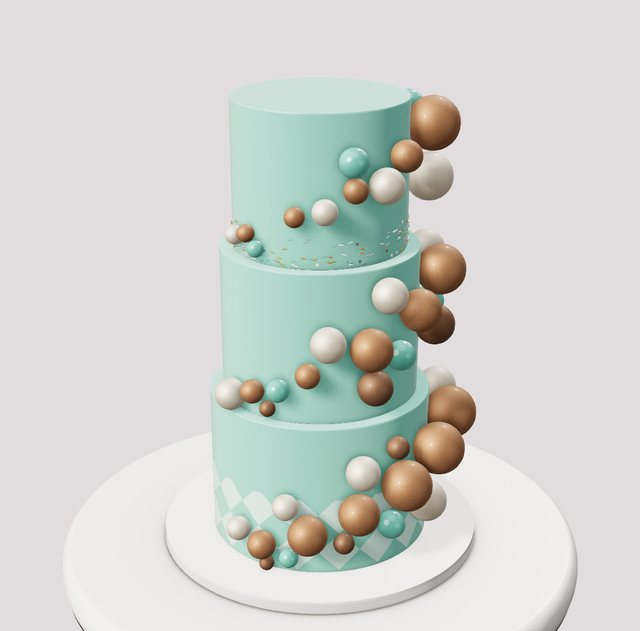
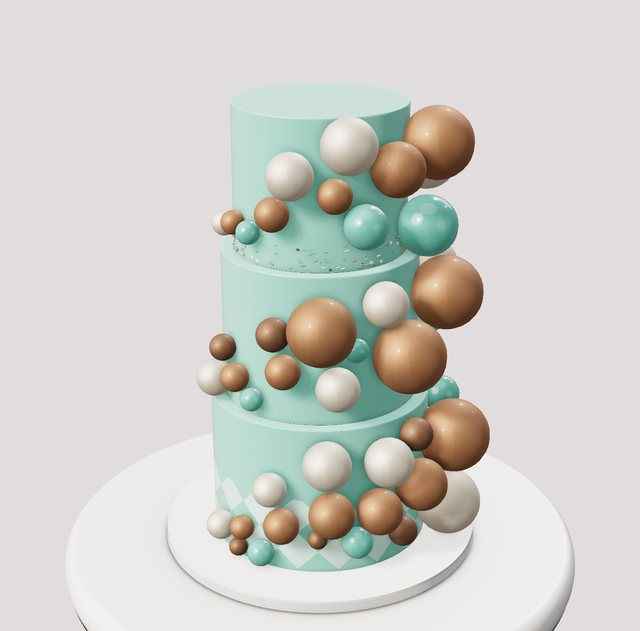
Rosette tower big rosettes, monogram in metallic champagne (new Metallic Luster finish), bigger teal baubles
Claude-Session: https://claude.ai/code/session_016sN14hzH19WJ5zrp8o2QGp

diff --git a/studio.html b/studio.html
@@ -435,7 +435,7 @@ const store={get(k){try{return JSON.parse(localStorage.getItem(k))}catch{return 
 // ---------------------------------------------------------------- Design data
 const FROSTING=['#fbf7f1','#f6eee3','#f3d6dc','#e9a6ba','#d97c99','#f6dcc8','#e7c08f','#d9e6ee','#c9d8c5','#cbbfe0','#7a4a32','#2f2a2c'];
 const PIPING=['#fbf7f1','#f3d6dc','#e9a6ba','#d16a8c','#c9a24e','#9fc0d6','#9db59a','#6b4a3a'];
-const FINISHES={buttercream:{label:'Buttercream',rough:.32,clear:.5,clearR:.15,sheen:.22,tex:1},fondant:{label:'Fondant',rough:.36,clear:.32,clearR:.2,sheen:.35,tex:.35},ganache:{label:'Ganache',rough:.16,clear:.8,clearR:.08,sheen:.1,tex:.25},royal:{label:'Royal Icing',rough:.5,clear:.18,clearR:.3,sheen:.15,tex:.6}};
+const FINISHES={buttercream:{label:'Buttercream',rough:.32,clear:.5,clearR:.15,sheen:.22,tex:1},fondant:{label:'Fondant',rough:.36,clear:.32,clearR:.2,sheen:.35,tex:.35},ganache:{label:'Ganache',rough:.16,clear:.8,clearR:.08,sheen:.1,tex:.25},royal:{label:'Royal Icing',rough:.5,clear:.18,clearR:.3,sheen:.15,tex:.6},metallic:{label:'Metallic Luster',rough:.3,clear:.45,clearR:.2,sheen:.2,tex:.3,metal:.75}};
 const TEX_GROUPS=[{label:'Piped Rosettes',hint:'The whole tier covered in rosettes, piped with a large star tip.',items:['rosettes']},{label:'Smooth And Scraped',hint:'Bench scraper finishes.',items:['smooth','seminaked']},{label:'Combs And Scrapers',hint:'Textured cake combs pulled around the cake.',items:['lines','ribbed','scallop','stripes','combed','wave','zigzag']},{label:'Palette Knife And Spatula',hint:'Hand-worked with a knife or offset spatula.',items:['knife','stucco','brushed','swipes']},{label:'Patterns And Ruffles',hint:'Piped or pressed patterns: basket weave, diamond quilt, dimples and ruffles.',items:['basket','diamond','dimple','golf','ruffle']},{label:'Spoon',hint:'Swirled with the back of a spoon.',items:['swirl']},{label:'Grass And Fur',hint:'The whole tier piped with a grass tip (233): a lawn, a sheep, a teddy bear or a monster.',items:['grass','fur']}];
 const ti=b=>'<svg viewBox="0 0 48 24" fill="none" stroke="currentColor" stroke-width="1.6" stroke-linecap="round" aria-hidden="true">'+b+'</svg>';
 const TEX_ICONS={rosettes:ti('<circle cx="14" cy="8" r="4"/><circle cx="24" cy="8" r="4"/><circle cx="34" cy="8" r="4"/><circle cx="19" cy="16" r="4"/><circle cx="29" cy="16" r="4"/><path d="M14 8m-1.5 0a1.5 1.5 0 1 0 1.5-1.5M24 8m-1.5 0a1.5 1.5 0 1 0 1.5-1.5M34 8m-1.5 0a1.5 1.5 0 1 0 1.5-1.5" stroke-width="1"/>'),smooth:ti('<rect x="8" y="4" width="32" height="16" rx="2"/>'),seminaked:ti('<rect x="8" y="4" width="32" height="16" rx="2"/><path d="M10 10h8M22 10h6M32 10h6M12 15h10M26 15h10" stroke-dasharray="2 2"/>'),lines:ti('<path d="M8 6h32M8 10h32M8 14h32M8 18h32"/>'),ribbed:ti('<path d="M12 4v16M17 4v16M22 4v16M27 4v16M32 4v16M37 4v16"/>'),scallop:ti('<path d="M8 8c2-3 4-3 6 0s4 3 6 0 4-3 6 0 4 3 6 0 4-3 6 0M8 15c2-3 4-3 6 0s4 3 6 0 4-3 6 0 4 3 6 0 4-3 6 0"/>'),stripes:ti('<path d="M8 6h32M8 14h32" stroke-width="3"/><path d="M8 10h32M8 18h32" stroke-width="3" opacity=".4"/>'),combed:ti('<path d="M8 7h32M8 9.5h32M8 12h32M8 14.5h32M8 17h32" stroke-width="1"/>'),knife:ti('<path d="M8 16l8-8 6 5 7-7 5 4 6-4M10 20l9-5 7 3 9-6"/>'),stucco:ti('<path d="M10 16l2-5 2 5M18 12l2-5 2 5M26 16l2-5 2 5M34 12l2-5 2 5M14 20l2-4 2 4M30 20l2-4 2 4"/>'),swirl:ti('<path d="M10 14c0-6 10-6 10 0s-6 5-6 1M26 12c0-6 10-6 10 0s-6 5-6 1"/>'),wave:ti('<path d="M3 8c4-5 7 5 11 0s7 5 11 0 7 5 11 0 7 5 9 0M3 17c4-5 7 5 11 0s7 5 11 0 7 5 11 0 7 5 9 0"/>'),zigzag:ti('<path d="M3 9l5-5 5 5 5-5 5 5 5-5 5 5 5-5 5 5M3 19l5-5 5 5 5-5 5 5 5-5 5 5 5-5 5 5"/>'),basket:ti('<path d="M4 4h14v7H4zM20 4h14v7H20zM4 13h14v7H4zM20 13h14v7H20zM36 4h8v7h-8zM36 13h8v7h-8z"/>'),diamond:ti('<path d="M12 2l10 10-10 10L2 12zM32 2l10 10-10 10-10-10z"/>'),golf:ti('<circle cx="8" cy="7" r="2"/><circle cx="18" cy="7" r="2"/><circle cx="28" cy="7" r="2"/><circle cx="38" cy="7" r="2"/><circle cx="13" cy="15" r="2"/><circle cx="23" cy="15" r="2"/><circle cx="33" cy="15" r="2"/>'),dimple:ti('<circle cx="10" cy="7" r="3"/><circle cx="24" cy="7" r="3"/><circle cx="38" cy="7" r="3"/><circle cx="17" cy="17" r="3"/><circle cx="31" cy="17" r="3"/>'),ruffle:ti('<path d="M6 2c-4 6 4 14 0 20M16 2c-4 6 4 14 0 20M26 2c-4 6 4 14 0 20M36 2c-4 6 4 14 0 20"/>'),brushed:ti('<path d="M8 2v20M15 4v18M22 2v19M29 5v17M36 2v20"/>'),swipes:ti('<path d="M8 20l4-18M17 22l4-18M26 20l4-18M35 22l4-18"/>')};TEX_ICONS.grass=ti('<path d="M6 20l1-12M10 20l-1-10M14 20l2-12M18 20l-1-9M22 20l2-12M26 20l-1-10M30 20l2-12M34 20l-1-9M38 20l2-11M42 20l-1-10"/>');TEX_ICONS.fur=ti('<path d="M5 8c1 4 3 6 4 10M11 8c1 4 3 6 4 10M17 8c1 4 3 6 4 10M23 8c1 4 3 6 4 10M29 8c1 4 3 6 4 10M35 8c1 4 3 6 4 10M41 8c1 4 2 6 3 10"/>');
@@ -1652,19 +1652,19 @@ THEMES.unshift(
   newTier(6.4,5,{top:'none',bottom:'none',decor:[DC('dragees','scatter',80,{color:'#f1e8de',size:85}),DC('mx_cascade_wedding','band',1,{size:800,rot:22,y:0}),DC('mx_peony_bud','band',1,{size:260,rot:44,y:1})]}),
   newTier(5,4.8,{texture:'lines',top:'none',bottom:'none',decor:[DC('mx_cascade_rose','band',1,{size:620,rot:22,y:1.2}),DC('mx_peony_coral','cluster',1,{size:300,face:30}),DC('mx_peony_bud','cluster',1,{size:220,face:30}),DC('mx_waxflower','cluster',1,{size:260})]})]}},
  {key:'sig_monogram',name:'Gilded Monogram Hexagon',tag:SIG,blurb:'Champagne hexagons with bold geometric gold lines and a gold quilt, a pleated ivory tier, a gold leaf top and a floral monogram hoop.',d:{board:'silver',topper:'none',tiers:[
-  newTier(13,5.2,{shape:'hexagon',color:'#e8d6bc',finish:'fondant',top:'none',bottom:'none',stencil:{pattern:'geo',color:'#c9a24e',size:4.4,height:4.4,y:.3},bottom:'pearls',bottomColor:'#d4ae5a'}),
-  newTier(10.6,5.4,{shape:'hexagon',color:'#cfa95f',finish:'fondant',texture:'golf',goldLeaf:true,top:'none',bottom:'none'}),
-  newTier(8.6,6.2,{color:'#fbf7f1',finish:'fondant',top:'none',bottom:'none',stencil:{pattern:'pleats',color:'#ddd2c4',size:2.2,height:6.2}}),
-  newTier(6.6,7,{color:'#d8b66a',finish:'fondant',goldLeaf:true,top:'pearls',pipe:'#d4ae5a',bottom:'pearls',bottomColor:'#d4ae5a',decor:[DC('monohoop','cluster',1,{color:'#d4ae5a',size:300,center:true,face:95})]})]}},
+  newTier(12,5.4,{shape:'hexagon',color:'#d9bf94',finish:'metallic',top:'none',bottom:'none',stencil:{pattern:'geo',color:'#8f6d33',size:4.4,height:4.4,y:.3},bottom:'pearls',bottomColor:'#d4ae5a'}),
+  newTier(11,5.2,{shape:'hexagon',color:'#cfae74',finish:'metallic',texture:'golf',top:'none',bottom:'none'}),
+  newTier(9.4,5.6,{color:'#fbf7f1',finish:'fondant',top:'none',bottom:'none',stencil:{pattern:'pleats',color:'#ddd2c4',size:2.2,height:5.6}}),
+  newTier(9,5.4,{color:'#d2b47c',finish:'metallic',top:'pearls',pipe:'#d4ae5a',bottom:'pearls',bottomColor:'#d4ae5a',decor:[DC('monohoop','cluster',1,{color:'#d4ae5a',size:360,center:true,face:95})]})]}},
  {key:'sig_rosettower',name:'Blush Rosette Tower',tag:SIG,blurb:'Ivory rosette tiers around a blush tier with diagonal fondant pleats, and a tall smooth blush top tier on a gold board.',d:{board:'gold',topper:'none',tiers:[
-  newTier(10,5.6,{texture:'rosettes',color:'#fbf3ea',top:'none',bottom:'none'}),
+  newTier(10,5.6,{texture:'rosettes',roseSize:170,roseTip:'2D',color:'#fbf3ea',top:'none',bottom:'none'}),
   newTier(8.8,5.4,{color:'#f1cfcf',finish:'fondant',top:'none',bottom:'none',stencil:{pattern:'pleats',color:'#d9a7aa',size:1.4,height:5.4}}),
-  newTier(7.8,5.2,{texture:'rosettes',color:'#fbf3ea',top:'none',bottom:'none'}),
-  newTier(6.8,6.4,{color:'#f4d6d4',finish:'fondant',top:'none',bottom:'none'})]}},
+  newTier(7.8,5.2,{texture:'rosettes',roseSize:170,roseTip:'2D',color:'#fbf3ea',top:'none',bottom:'none'}),
+  newTier(6.6,4.4,{color:'#f4d6d4',finish:'fondant',top:'none',bottom:'none'})]}},
  {key:'sig_teal',name:'Teal Bauble Cascade',tag:SIG,blurb:'Three tall teal fondant tiers, a harlequin bottom tier and a column of glittery bronze, ivory and teal spheres cascading down one side, with sprinkles.',d:{board:'white',boardColor:'#e9eaec',topper:'none',tiers:[
-  newTier(8.6,6,{color:'#7cc8b8',finish:'fondant',top:'none',bottom:'none',stencil:{pattern:'harlequin',color:'#c4e8df',size:1.6,height:3,y:-1.4},decor:[DC('glitterspheres','cascade',6,{color:'#b0825f',rot:-100,size:290}),DC('glitterspheres','cascade',5,{color:'#f3ead8',rot:-96,size:300}),DC('spheres','cascade',3,{color:'#5fb3a3',rot:-104,size:280}),DC('glitterspheres','cascade',4,{color:'#8c6a52',rot:-100,size:220})]}),
-  newTier(7.6,5.8,{color:'#7cc8b8',finish:'fondant',top:'none',bottom:'none',decor:[DC('glitterspheres','cascade',5,{color:'#b0825f',rot:-100,size:280}),DC('glitterspheres','cascade',4,{color:'#f3ead8',rot:-96,size:290}),DC('spheres','cascade',3,{color:'#5fb3a3',rot:-104,size:270}),DC('glitterspheres','cascade',3,{color:'#8c6a52',rot:-100,size:210})]}),
-  newTier(6.6,5.6,{color:'#7cc8b8',finish:'fondant',top:'none',bottom:'none',decor:[DC('glitterspheres','cascade',5,{color:'#b0825f',rot:-100,size:270}),DC('glitterspheres','cascade',4,{color:'#f3ead8',rot:-96,size:280}),DC('spheres','cascade',3,{color:'#5fb3a3',rot:-104,size:260}),DC('sprinkles','cascade',220,{mix:['#5fb3a3','#d4ae5a','#c9ccd2','#fbf7f1'],rot:30})]})]}},
+  newTier(8.6,6,{color:'#7cc8b8',finish:'fondant',top:'none',bottom:'none',stencil:{pattern:'harlequin',color:'#c4e8df',size:1.6,height:3,y:-1.4},decor:[DC('glitterspheres','cascade',6,{color:'#b0825f',rot:-88,size:391}),DC('glitterspheres','cascade',5,{color:'#f3ead8',rot:-82,size:405}),DC('spheres','cascade',3,{color:'#5fb3a3',rot:-94,size:378}),DC('glitterspheres','cascade',4,{color:'#8c6a52',rot:-88,size:297})]}),
+  newTier(7.6,5.8,{color:'#7cc8b8',finish:'fondant',top:'none',bottom:'none',decor:[DC('glitterspheres','cascade',5,{color:'#b0825f',rot:-88,size:378}),DC('glitterspheres','cascade',4,{color:'#f3ead8',rot:-82,size:391}),DC('spheres','cascade',3,{color:'#5fb3a3',rot:-94,size:364}),DC('glitterspheres','cascade',3,{color:'#8c6a52',rot:-88,size:283})]}),
+  newTier(6.6,5.6,{color:'#7cc8b8',finish:'fondant',top:'none',bottom:'none',decor:[DC('glitterspheres','cascade',5,{color:'#b0825f',rot:-88,size:364}),DC('glitterspheres','cascade',4,{color:'#f3ead8',rot:-82,size:378}),DC('spheres','cascade',3,{color:'#5fb3a3',rot:-94,size:351}),DC('sprinkles','cascade',220,{mix:['#5fb3a3','#d4ae5a','#c9ccd2','#fbf7f1'],rot:30})]})]}},
  {key:'sig_cow',name:'Pink Bow Cow',tag:SIG,blurb:'A white cow cake with black spots, big cartoon eyes, a pink muzzle with a wide open grin, floppy pink-lined ears, black horns and pink bows.',d:{board:'white',boardColor:'#fbf7f1',topper:'none',tiers:[
   newTier(8,6.2,{color:'#ffffff',finish:'fondant',print:'cow',printColor:'#1d1b1f',top:'none',bottom:'none',decor:[DC('cowface','band',1,{color:'#f3b6c8',size:300,R:4,rot:55,y:.3}),DC('cowear','band',1,{color:'#f3b6c8',size:200,rot:-25,y:2.6}),DC('cowear','band',1,{color:'#f3b6c8',size:200,rot:135,y:2.6}),DC('cowtop','cluster',1,{color:'#f3a6c0',size:190,center:true,face:95})]})]}},
  {key:'sig_pillows',name:'Gold Damask Pillows',tag:SIG,blurb:'A pillow cake: a base tier in gold damask with a ring of ivory roses, a puffy pleated pillow with pinched corners and gold tassels, and a silver rose dome topped with ivory roses.',d:{board:'silver',boardShape:'square',topper:'none',tiers:[
@@ -1930,7 +1930,7 @@ function buildStencil(t,ctx){const ST=t.stencil;if(!ST||!ST.pattern)return;const
 const matCache=new Map();
 function mkMat(key,make){if(!matCache.has(key))matCache.set(key,make());return matCache.get(key)}
 function shineK(){return 1.6-design.scene.shine/100*1.2}
-function surfaceMat(t){const nk=t.texture==='seminaked',om=!nk&&(t.ombre||t.texture==='stripes'||(t.print&&t.print!=='none')||(t.texture==='vruffles'&&t.edgeColor));return mkMat('surf|'+t.color+'|'+t.finish+'|'+t.texture+(nk?'|'+Math.round(t.h*4):'')+(om?'|om':'')+(TEX3D[t.texture]?'|3d':''),()=>{const f=FINISHES[t.finish]||FINISHES.buttercream,nm=(TEX[t.texture]||TEX.smooth).clone(),rm=TEX.rough.clone();nm.repeat.set(3,1);rm.repeat.set(3,1);nm.needsUpdate=rm.needsUpdate=true;const m=new T.MeshPhysicalMaterial({color:t.color,roughnessMap:rm,normalMap:nm,normalScale:new V2(.3*f.tex*(t.texture==='smooth'?1:1.3),.3*f.tex*(t.texture==='smooth'?1:1.3)),sheen:f.sheen,sheenRoughness:.5,sheenColor:new T.Color(1,.965,.925)});if(nk){m.color.set('#ffffff');m.map=nakedTex(t.color,t.h);m.normalScale.set(.18,.18)}if(om){m.color.set('#ffffff');m.vertexColors=true}m.userData.finish=f;return warm(m,1.15)})}
+function surfaceMat(t){const nk=t.texture==='seminaked',om=!nk&&(t.ombre||t.texture==='stripes'||(t.print&&t.print!=='none')||(t.texture==='vruffles'&&t.edgeColor));return mkMat('surf|'+t.color+'|'+t.finish+'|'+t.texture+(nk?'|'+Math.round(t.h*4):'')+(om?'|om':'')+(TEX3D[t.texture]?'|3d':''),()=>{const f=FINISHES[t.finish]||FINISHES.buttercream,nm=(TEX[t.texture]||TEX.smooth).clone(),rm=TEX.rough.clone();nm.repeat.set(3,1);rm.repeat.set(3,1);nm.needsUpdate=rm.needsUpdate=true;const m=new T.MeshPhysicalMaterial({color:t.color,roughnessMap:rm,normalMap:nm,normalScale:new V2(.3*f.tex*(t.texture==='smooth'?1:1.3),.3*f.tex*(t.texture==='smooth'?1:1.3)),sheen:f.sheen,sheenRoughness:.5,sheenColor:new T.Color(1,.965,.925),metalness:f.metal||0});if(nk){m.color.set('#ffffff');m.map=nakedTex(t.color,t.h);m.normalScale.set(.18,.18)}if(om){m.color.set('#ffffff');m.vertexColors=true}m.userData.finish=f;return warm(m,1.15)})}
 function pipeMat(c){return mkMat('pipe|'+c,()=>{const nm=TEX.fine.clone();nm.repeat.set(2,1);nm.needsUpdate=true;const m=new T.MeshPhysicalMaterial({color:c,vertexColors:true,normalMap:nm,normalScale:new V2(.18,.18),sheen:.25,sheenRoughness:.5,sheenColor:new T.Color(1,.965,.925)});m.userData.finish={rough:.25,clear:.57,clearR:.13};return warm(m,.95)})}
 const HORNS={gold:'Gold',silver:'Silver',rosegold:'Rose Gold',rainbow:'Rainbow Swirl',pastel:'Pastel Pink',pearl:'Pearl White'};
 function hornMat(k){return k==='silver'?dmat('#c9ccd2',{r:.2,metal:1,cc:.4}):k==='rosegold'?dmat('#d9a08a',{r:.22,metal:1,cc:.4}):k==='pastel'?dmat('#f3c1cf',{r:.25,cc:.9,ccr:.05,sh:.4}):k==='pearl'?dmat('#fbf7f1',{r:.18,cc:1,ccr:.04,sh:.5}):k==='rainbow'?dmat('#ffffff',{r:.22,cc:.9,ccr:.05,sh:.3}):goldMat}

diff --git a/tools/signature-decor.js b/tools/signature-decor.js
@@ -317,19 +317,19 @@ THEMES.unshift(
   newTier(6.4,5,{top:'none',bottom:'none',decor:[DC('dragees','scatter',80,{color:'#f1e8de',size:85}),DC('mx_cascade_wedding','band',1,{size:800,rot:22,y:0}),DC('mx_peony_bud','band',1,{size:260,rot:44,y:1})]}),
   newTier(5,4.8,{texture:'lines',top:'none',bottom:'none',decor:[DC('mx_cascade_rose','band',1,{size:620,rot:22,y:1.2}),DC('mx_peony_coral','cluster',1,{size:300,face:30}),DC('mx_peony_bud','cluster',1,{size:220,face:30}),DC('mx_waxflower','cluster',1,{size:260})]})]}},
  {key:'sig_monogram',name:'Gilded Monogram Hexagon',tag:SIG,blurb:'Champagne hexagons with bold geometric gold lines and a gold quilt, a pleated ivory tier, a gold leaf top and a floral monogram hoop.',d:{board:'silver',topper:'none',tiers:[
-  newTier(13,5.2,{shape:'hexagon',color:'#e8d6bc',finish:'fondant',top:'none',bottom:'none',stencil:{pattern:'geo',color:'#c9a24e',size:4.4,height:4.4,y:.3},bottom:'pearls',bottomColor:'#d4ae5a'}),
-  newTier(10.6,5.4,{shape:'hexagon',color:'#cfa95f',finish:'fondant',texture:'golf',goldLeaf:true,top:'none',bottom:'none'}),
-  newTier(8.6,6.2,{color:'#fbf7f1',finish:'fondant',top:'none',bottom:'none',stencil:{pattern:'pleats',color:'#ddd2c4',size:2.2,height:6.2}}),
-  newTier(6.6,7,{color:'#d8b66a',finish:'fondant',goldLeaf:true,top:'pearls',pipe:'#d4ae5a',bottom:'pearls',bottomColor:'#d4ae5a',decor:[DC('monohoop','cluster',1,{color:'#d4ae5a',size:300,center:true,face:95})]})]}},
+  newTier(12,5.4,{shape:'hexagon',color:'#d9bf94',finish:'metallic',top:'none',bottom:'none',stencil:{pattern:'geo',color:'#8f6d33',size:4.4,height:4.4,y:.3},bottom:'pearls',bottomColor:'#d4ae5a'}),
+  newTier(11,5.2,{shape:'hexagon',color:'#cfae74',finish:'metallic',texture:'golf',top:'none',bottom:'none'}),
+  newTier(9.4,5.6,{color:'#fbf7f1',finish:'fondant',top:'none',bottom:'none',stencil:{pattern:'pleats',color:'#ddd2c4',size:2.2,height:5.6}}),
+  newTier(9,5.4,{color:'#d2b47c',finish:'metallic',top:'pearls',pipe:'#d4ae5a',bottom:'pearls',bottomColor:'#d4ae5a',decor:[DC('monohoop','cluster',1,{color:'#d4ae5a',size:360,center:true,face:95})]})]}},
  {key:'sig_rosettower',name:'Blush Rosette Tower',tag:SIG,blurb:'Ivory rosette tiers around a blush tier with diagonal fondant pleats, and a tall smooth blush top tier on a gold board.',d:{board:'gold',topper:'none',tiers:[
-  newTier(10,5.6,{texture:'rosettes',color:'#fbf3ea',top:'none',bottom:'none'}),
+  newTier(10,5.6,{texture:'rosettes',roseSize:170,roseTip:'2D',color:'#fbf3ea',top:'none',bottom:'none'}),
   newTier(8.8,5.4,{color:'#f1cfcf',finish:'fondant',top:'none',bottom:'none',stencil:{pattern:'pleats',color:'#d9a7aa',size:1.4,height:5.4}}),
-  newTier(7.8,5.2,{texture:'rosettes',color:'#fbf3ea',top:'none',bottom:'none'}),
-  newTier(6.8,6.4,{color:'#f4d6d4',finish:'fondant',top:'none',bottom:'none'})]}},
+  newTier(7.8,5.2,{texture:'rosettes',roseSize:170,roseTip:'2D',color:'#fbf3ea',top:'none',bottom:'none'}),
+  newTier(6.6,4.4,{color:'#f4d6d4',finish:'fondant',top:'none',bottom:'none'})]}},
  {key:'sig_teal',name:'Teal Bauble Cascade',tag:SIG,blurb:'Three tall teal fondant tiers, a harlequin bottom tier and a column of glittery bronze, ivory and teal spheres cascading down one side, with sprinkles.',d:{board:'white',boardColor:'#e9eaec',topper:'none',tiers:[
-  newTier(8.6,6,{color:'#7cc8b8',finish:'fondant',top:'none',bottom:'none',stencil:{pattern:'harlequin',color:'#c4e8df',size:1.6,height:3,y:-1.4},decor:[DC('glitterspheres','cascade',6,{color:'#b0825f',rot:-100,size:290}),DC('glitterspheres','cascade',5,{color:'#f3ead8',rot:-96,size:300}),DC('spheres','cascade',3,{color:'#5fb3a3',rot:-104,size:280}),DC('glitterspheres','cascade',4,{color:'#8c6a52',rot:-100,size:220})]}),
-  newTier(7.6,5.8,{color:'#7cc8b8',finish:'fondant',top:'none',bottom:'none',decor:[DC('glitterspheres','cascade',5,{color:'#b0825f',rot:-100,size:280}),DC('glitterspheres','cascade',4,{color:'#f3ead8',rot:-96,size:290}),DC('spheres','cascade',3,{color:'#5fb3a3',rot:-104,size:270}),DC('glitterspheres','cascade',3,{color:'#8c6a52',rot:-100,size:210})]}),
-  newTier(6.6,5.6,{color:'#7cc8b8',finish:'fondant',top:'none',bottom:'none',decor:[DC('glitterspheres','cascade',5,{color:'#b0825f',rot:-100,size:270}),DC('glitterspheres','cascade',4,{color:'#f3ead8',rot:-96,size:280}),DC('spheres','cascade',3,{color:'#5fb3a3',rot:-104,size:260}),DC('sprinkles','cascade',220,{mix:['#5fb3a3','#d4ae5a','#c9ccd2','#fbf7f1'],rot:30})]})]}},
+  newTier(8.6,6,{color:'#7cc8b8',finish:'fondant',top:'none',bottom:'none',stencil:{pattern:'harlequin',color:'#c4e8df',size:1.6,height:3,y:-1.4},decor:[DC('glitterspheres','cascade',6,{color:'#b0825f',rot:-88,size:391}),DC('glitterspheres','cascade',5,{color:'#f3ead8',rot:-82,size:405}),DC('spheres','cascade',3,{color:'#5fb3a3',rot:-94,size:378}),DC('glitterspheres','cascade',4,{color:'#8c6a52',rot:-88,size:297})]}),
+  newTier(7.6,5.8,{color:'#7cc8b8',finish:'fondant',top:'none',bottom:'none',decor:[DC('glitterspheres','cascade',5,{color:'#b0825f',rot:-88,size:378}),DC('glitterspheres','cascade',4,{color:'#f3ead8',rot:-82,size:391}),DC('spheres','cascade',3,{color:'#5fb3a3',rot:-94,size:364}),DC('glitterspheres','cascade',3,{color:'#8c6a52',rot:-88,size:283})]}),
+  newTier(6.6,5.6,{color:'#7cc8b8',finish:'fondant',top:'none',bottom:'none',decor:[DC('glitterspheres','cascade',5,{color:'#b0825f',rot:-88,size:364}),DC('glitterspheres','cascade',4,{color:'#f3ead8',rot:-82,size:378}),DC('spheres','cascade',3,{color:'#5fb3a3',rot:-94,size:351}),DC('sprinkles','cascade',220,{mix:['#5fb3a3','#d4ae5a','#c9ccd2','#fbf7f1'],rot:30})]})]}},
  {key:'sig_cow',name:'Pink Bow Cow',tag:SIG,blurb:'A white cow cake with black spots, big cartoon eyes, a pink muzzle with a wide open grin, floppy pink-lined ears, black horns and pink bows.',d:{board:'white',boardColor:'#fbf7f1',topper:'none',tiers:[
   newTier(8,6.2,{color:'#ffffff',finish:'fondant',print:'cow',printColor:'#1d1b1f',top:'none',bottom:'none',decor:[DC('cowface','band',1,{color:'#f3b6c8',size:300,R:4,rot:55,y:.3}),DC('cowear','band',1,{color:'#f3b6c8',size:200,rot:-25,y:2.6}),DC('cowear','band',1,{color:'#f3b6c8',size:200,rot:135,y:2.6}),DC('cowtop','cluster',1,{color:'#f3a6c0',size:190,center:true,face:95})]})]}},
  {key:'sig_pillows',name:'Gold Damask Pillows',tag:SIG,blurb:'A pillow cake: a base tier in gold damask with a ring of ivory roses, a puffy pleated pillow with pinched corners and gold tassels, and a silver rose dome topped with ivory roses.',d:{board:'silver',boardShape:'square',topper:'none',tiers:[

diff --git a/tools/sig-themes.js b/tools/sig-themes.js
@@ -8,19 +8,19 @@ THEMES.unshift(
   newTier(6.4,5,{top:'none',bottom:'none',decor:[DC('dragees','scatter',80,{color:'#f1e8de',size:85}),DC('mx_cascade_wedding','band',1,{size:800,rot:22,y:0}),DC('mx_peony_bud','band',1,{size:260,rot:44,y:1})]}),
   newTier(5,4.8,{texture:'lines',top:'none',bottom:'none',decor:[DC('mx_cascade_rose','band',1,{size:620,rot:22,y:1.2}),DC('mx_peony_coral','cluster',1,{size:300,face:30}),DC('mx_peony_bud','cluster',1,{size:220,face:30}),DC('mx_waxflower','cluster',1,{size:260})]})]}},
  {key:'sig_monogram',name:'Gilded Monogram Hexagon',tag:SIG,blurb:'Champagne hexagons with bold geometric gold lines and a gold quilt, a pleated ivory tier, a gold leaf top and a floral monogram hoop.',d:{board:'silver',topper:'none',tiers:[
-  newTier(13,5.2,{shape:'hexagon',color:'#e8d6bc',finish:'fondant',top:'none',bottom:'none',stencil:{pattern:'geo',color:'#c9a24e',size:4.4,height:4.4,y:.3},bottom:'pearls',bottomColor:'#d4ae5a'}),
-  newTier(10.6,5.4,{shape:'hexagon',color:'#cfa95f',finish:'fondant',texture:'golf',goldLeaf:true,top:'none',bottom:'none'}),
-  newTier(8.6,6.2,{color:'#fbf7f1',finish:'fondant',top:'none',bottom:'none',stencil:{pattern:'pleats',color:'#ddd2c4',size:2.2,height:6.2}}),
-  newTier(6.6,7,{color:'#d8b66a',finish:'fondant',goldLeaf:true,top:'pearls',pipe:'#d4ae5a',bottom:'pearls',bottomColor:'#d4ae5a',decor:[DC('monohoop','cluster',1,{color:'#d4ae5a',size:300,center:true,face:95})]})]}},
+  newTier(12,5.4,{shape:'hexagon',color:'#d9bf94',finish:'metallic',top:'none',bottom:'none',stencil:{pattern:'geo',color:'#8f6d33',size:4.4,height:4.4,y:.3},bottom:'pearls',bottomColor:'#d4ae5a'}),
+  newTier(11,5.2,{shape:'hexagon',color:'#cfae74',finish:'metallic',texture:'golf',top:'none',bottom:'none'}),
+  newTier(9.4,5.6,{color:'#fbf7f1',finish:'fondant',top:'none',bottom:'none',stencil:{pattern:'pleats',color:'#ddd2c4',size:2.2,height:5.6}}),
+  newTier(9,5.4,{color:'#d2b47c',finish:'metallic',top:'pearls',pipe:'#d4ae5a',bottom:'pearls',bottomColor:'#d4ae5a',decor:[DC('monohoop','cluster',1,{color:'#d4ae5a',size:360,center:true,face:95})]})]}},
  {key:'sig_rosettower',name:'Blush Rosette Tower',tag:SIG,blurb:'Ivory rosette tiers around a blush tier with diagonal fondant pleats, and a tall smooth blush top tier on a gold board.',d:{board:'gold',topper:'none',tiers:[
-  newTier(10,5.6,{texture:'rosettes',color:'#fbf3ea',top:'none',bottom:'none'}),
+  newTier(10,5.6,{texture:'rosettes',roseSize:170,roseTip:'2D',color:'#fbf3ea',top:'none',bottom:'none'}),
   newTier(8.8,5.4,{color:'#f1cfcf',finish:'fondant',top:'none',bottom:'none',stencil:{pattern:'pleats',color:'#d9a7aa',size:1.4,height:5.4}}),
-  newTier(7.8,5.2,{texture:'rosettes',color:'#fbf3ea',top:'none',bottom:'none'}),
-  newTier(6.8,6.4,{color:'#f4d6d4',finish:'fondant',top:'none',bottom:'none'})]}},
+  newTier(7.8,5.2,{texture:'rosettes',roseSize:170,roseTip:'2D',color:'#fbf3ea',top:'none',bottom:'none'}),
+  newTier(6.6,4.4,{color:'#f4d6d4',finish:'fondant',top:'none',bottom:'none'})]}},
  {key:'sig_teal',name:'Teal Bauble Cascade',tag:SIG,blurb:'Three tall teal fondant tiers, a harlequin bottom tier and a column of glittery bronze, ivory and teal spheres cascading down one side, with sprinkles.',d:{board:'white',boardColor:'#e9eaec',topper:'none',tiers:[
-  newTier(8.6,6,{color:'#7cc8b8',finish:'fondant',top:'none',bottom:'none',stencil:{pattern:'harlequin',color:'#c4e8df',size:1.6,height:3,y:-1.4},decor:[DC('glitterspheres','cascade',6,{color:'#b0825f',rot:-100,size:290}),DC('glitterspheres','cascade',5,{color:'#f3ead8',rot:-96,size:300}),DC('spheres','cascade',3,{color:'#5fb3a3',rot:-104,size:280}),DC('glitterspheres','cascade',4,{color:'#8c6a52',rot:-100,size:220})]}),
-  newTier(7.6,5.8,{color:'#7cc8b8',finish:'fondant',top:'none',bottom:'none',decor:[DC('glitterspheres','cascade',5,{color:'#b0825f',rot:-100,size:280}),DC('glitterspheres','cascade',4,{color:'#f3ead8',rot:-96,size:290}),DC('spheres','cascade',3,{color:'#5fb3a3',rot:-104,size:270}),DC('glitterspheres','cascade',3,{color:'#8c6a52',rot:-100,size:210})]}),
-  newTier(6.6,5.6,{color:'#7cc8b8',finish:'fondant',top:'none',bottom:'none',decor:[DC('glitterspheres','cascade',5,{color:'#b0825f',rot:-100,size:270}),DC('glitterspheres','cascade',4,{color:'#f3ead8',rot:-96,size:280}),DC('spheres','cascade',3,{color:'#5fb3a3',rot:-104,size:260}),DC('sprinkles','cascade',220,{mix:['#5fb3a3','#d4ae5a','#c9ccd2','#fbf7f1'],rot:30})]})]}},
+  newTier(8.6,6,{color:'#7cc8b8',finish:'fondant',top:'none',bottom:'none',stencil:{pattern:'harlequin',color:'#c4e8df',size:1.6,height:3,y:-1.4},decor:[DC('glitterspheres','cascade',6,{color:'#b0825f',rot:-88,size:391}),DC('glitterspheres','cascade',5,{color:'#f3ead8',rot:-82,size:405}),DC('spheres','cascade',3,{color:'#5fb3a3',rot:-94,size:378}),DC('glitterspheres','cascade',4,{color:'#8c6a52',rot:-88,size:297})]}),
+  newTier(7.6,5.8,{color:'#7cc8b8',finish:'fondant',top:'none',bottom:'none',decor:[DC('glitterspheres','cascade',5,{color:'#b0825f',rot:-88,size:378}),DC('glitterspheres','cascade',4,{color:'#f3ead8',rot:-82,size:391}),DC('spheres','cascade',3,{color:'#5fb3a3',rot:-94,size:364}),DC('glitterspheres','cascade',3,{color:'#8c6a52',rot:-88,size:283})]}),
+  newTier(6.6,5.6,{color:'#7cc8b8',finish:'fondant',top:'none',bottom:'none',decor:[DC('glitterspheres','cascade',5,{color:'#b0825f',rot:-88,size:364}),DC('glitterspheres','cascade',4,{color:'#f3ead8',rot:-82,size:378}),DC('spheres','cascade',3,{color:'#5fb3a3',rot:-94,size:351}),DC('sprinkles','cascade',220,{mix:['#5fb3a3','#d4ae5a','#c9ccd2','#fbf7f1'],rot:30})]})]}},
  {key:'sig_cow',name:'Pink Bow Cow',tag:SIG,blurb:'A white cow cake with black spots, big cartoon eyes, a pink muzzle with a wide open grin, floppy pink-lined ears, black horns and pink bows.',d:{board:'white',boardColor:'#fbf7f1',topper:'none',tiers:[
   newTier(8,6.2,{color:'#ffffff',finish:'fondant',print:'cow',printColor:'#1d1b1f',top:'none',bottom:'none',decor:[DC('cowface','band',1,{color:'#f3b6c8',size:300,R:4,rot:55,y:.3}),DC('cowear','band',1,{color:'#f3b6c8',size:200,rot:-25,y:2.6}),DC('cowear','band',1,{color:'#f3b6c8',size:200,rot:135,y:2.6}),DC('cowtop','cluster',1,{color:'#f3a6c0',size:190,center:true,face:95})]})]}},
  {key:'sig_pillows',name:'Gold Damask Pillows',tag:SIG,blurb:'A pillow cake: a base tier in gold damask with a ring of ivory roses, a puffy pleated pillow with pinched corners and gold tassels, and a silver rose dome topped with ivory roses.',d:{board:'silver',boardShape:'square',topper:'none',tiers:[
